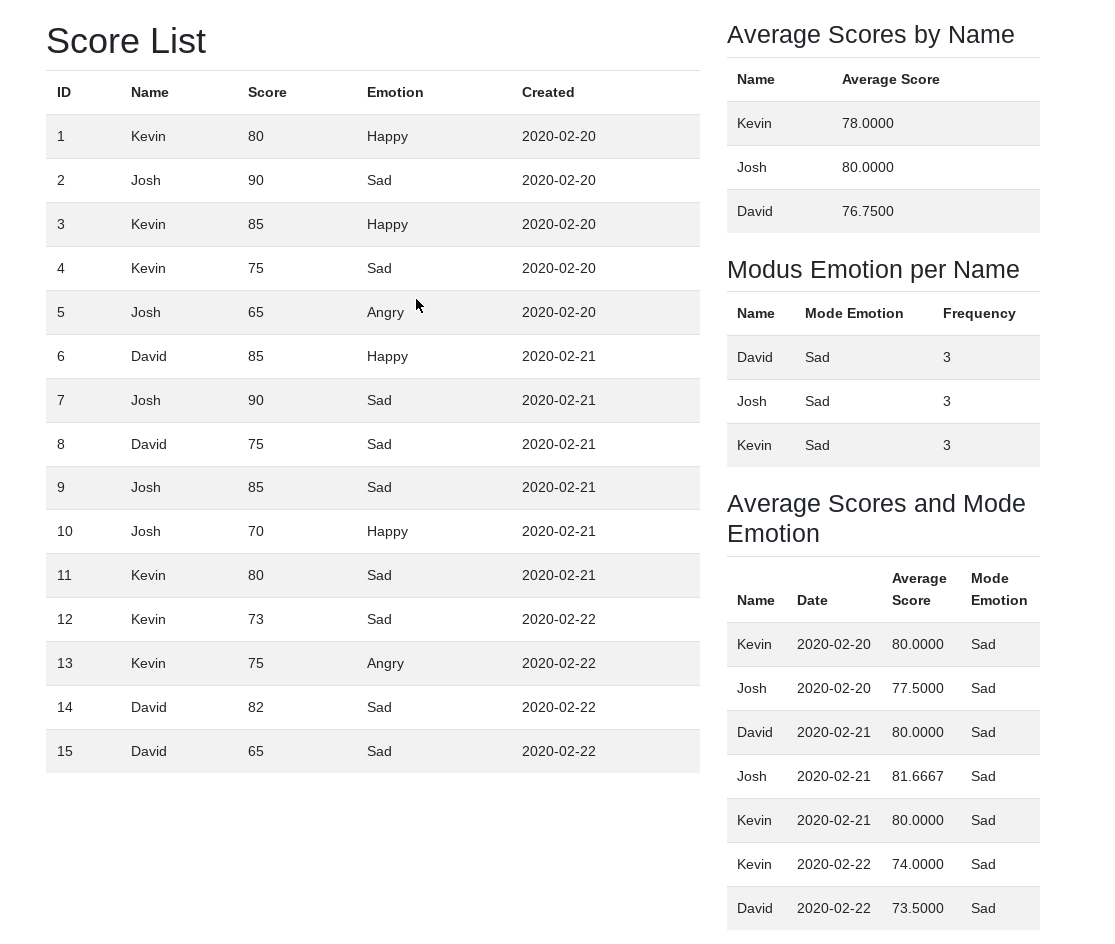
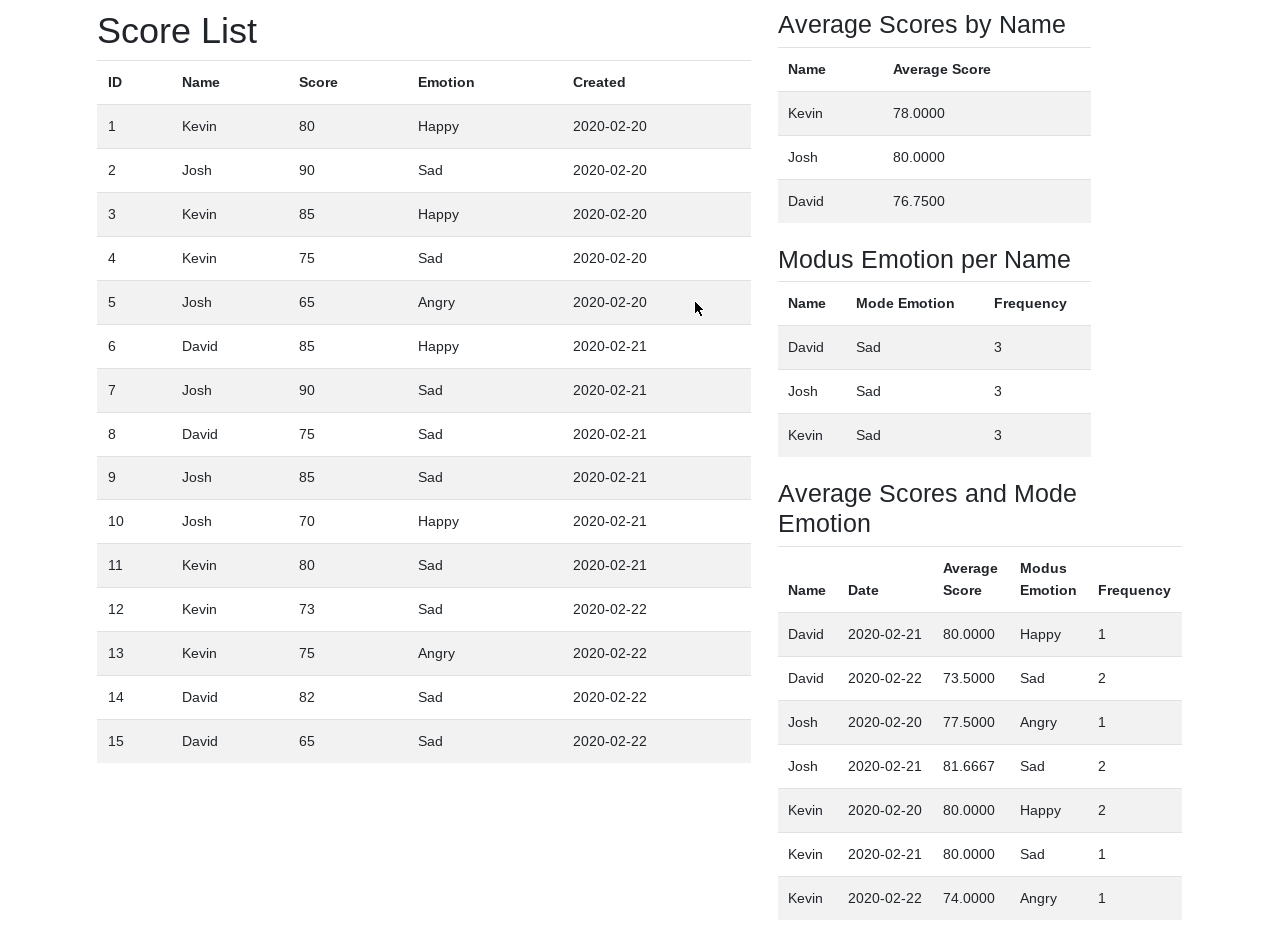
Update sql logic

diff --git a/utils/score.js b/utils/score.js
@@ -1,6 +1,5 @@
-const { fn, col, literal } = require('sequelize');
-const Score = require('../models/Score'); // Adjust the path to your model
-
+const { fn, col, literal} = require('sequelize');
+const Score = require('../models/Score');
 const sampleScores = [
     { name: 'Kevin', score: 80, emotion: 'Happy', created: '2020-02-20' },
     { name: 'Josh', score: 90, emotion: 'Sad', created: '2020-02-20' },
@@ -30,26 +29,34 @@ const insertSampleData = async () => {
 
 const getAverageScoreAndModeEmotion = async () => {
     try {
-        const results = await Score.findAll({
+      
+        results = await Score.findAll({
             attributes: [
                 'name',
                 'created',
                 [fn('AVG', col('score')), 'average_score'],
                 [literal(`(
                     SELECT emotion
-                    FROM (
-                        SELECT emotion, COUNT(*) AS frequency
-                        FROM Scores
-                        WHERE name = Scores.name AND created = Scores.created
-                        GROUP BY emotion
-                        ORDER BY frequency DESC
-                        LIMIT 1
-                    ) AS mode_emotion
-                )`), 'mode_emotion']
+                    FROM Scores AS innerScores
+                    WHERE innerScores.name = Score.name AND innerScores.created = Score.created
+                    GROUP BY emotion
+                    ORDER BY COUNT(*) DESC, emotion ASC
+                    LIMIT 1
+                )`), 'modus_emotion'],
+                [literal(`(
+                    SELECT COUNT(*)
+                    FROM Scores AS innerScores
+                    WHERE innerScores.name = Score.name AND innerScores.created = Score.created
+                    GROUP BY emotion
+                    ORDER BY COUNT(*) DESC, emotion ASC
+                    LIMIT 1
+                )`), 'frequency']
             ],
             group: ['name', 'created'],
+            order: [['name', 'ASC'], ['created', 'ASC']],
             raw: true
         });
+
         
         return results;
     } catch (error) {

diff --git a/app.js b/app.js
@@ -153,7 +153,9 @@ sequelize.authenticate()
                     frequency
                 }));
                 
+                
                 const avgScorenEmotion = await getAverageScoreAndModeEmotion();
+                console.log("--------------------------------")
                 console.log(avgScorenEmotion)
                 
                 
